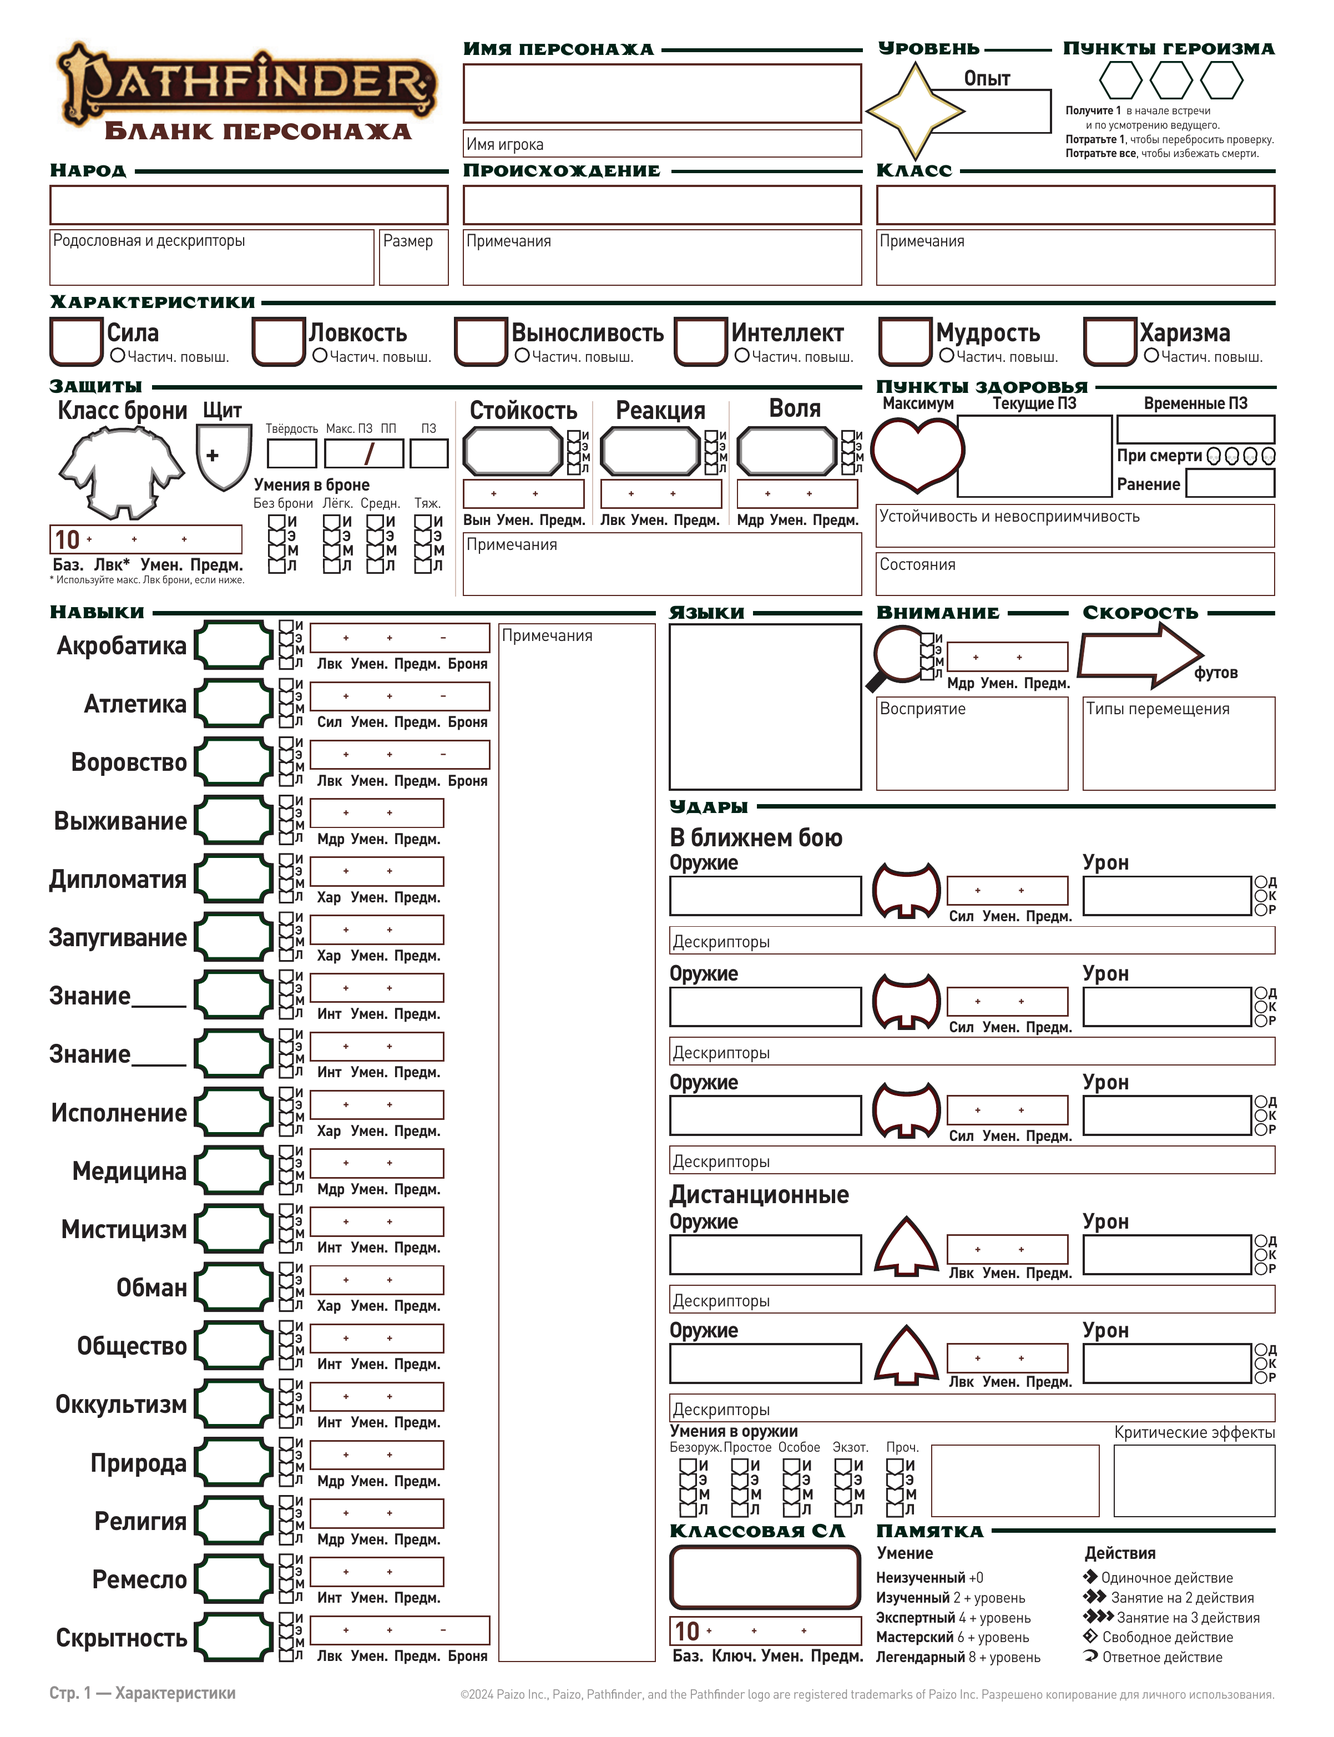
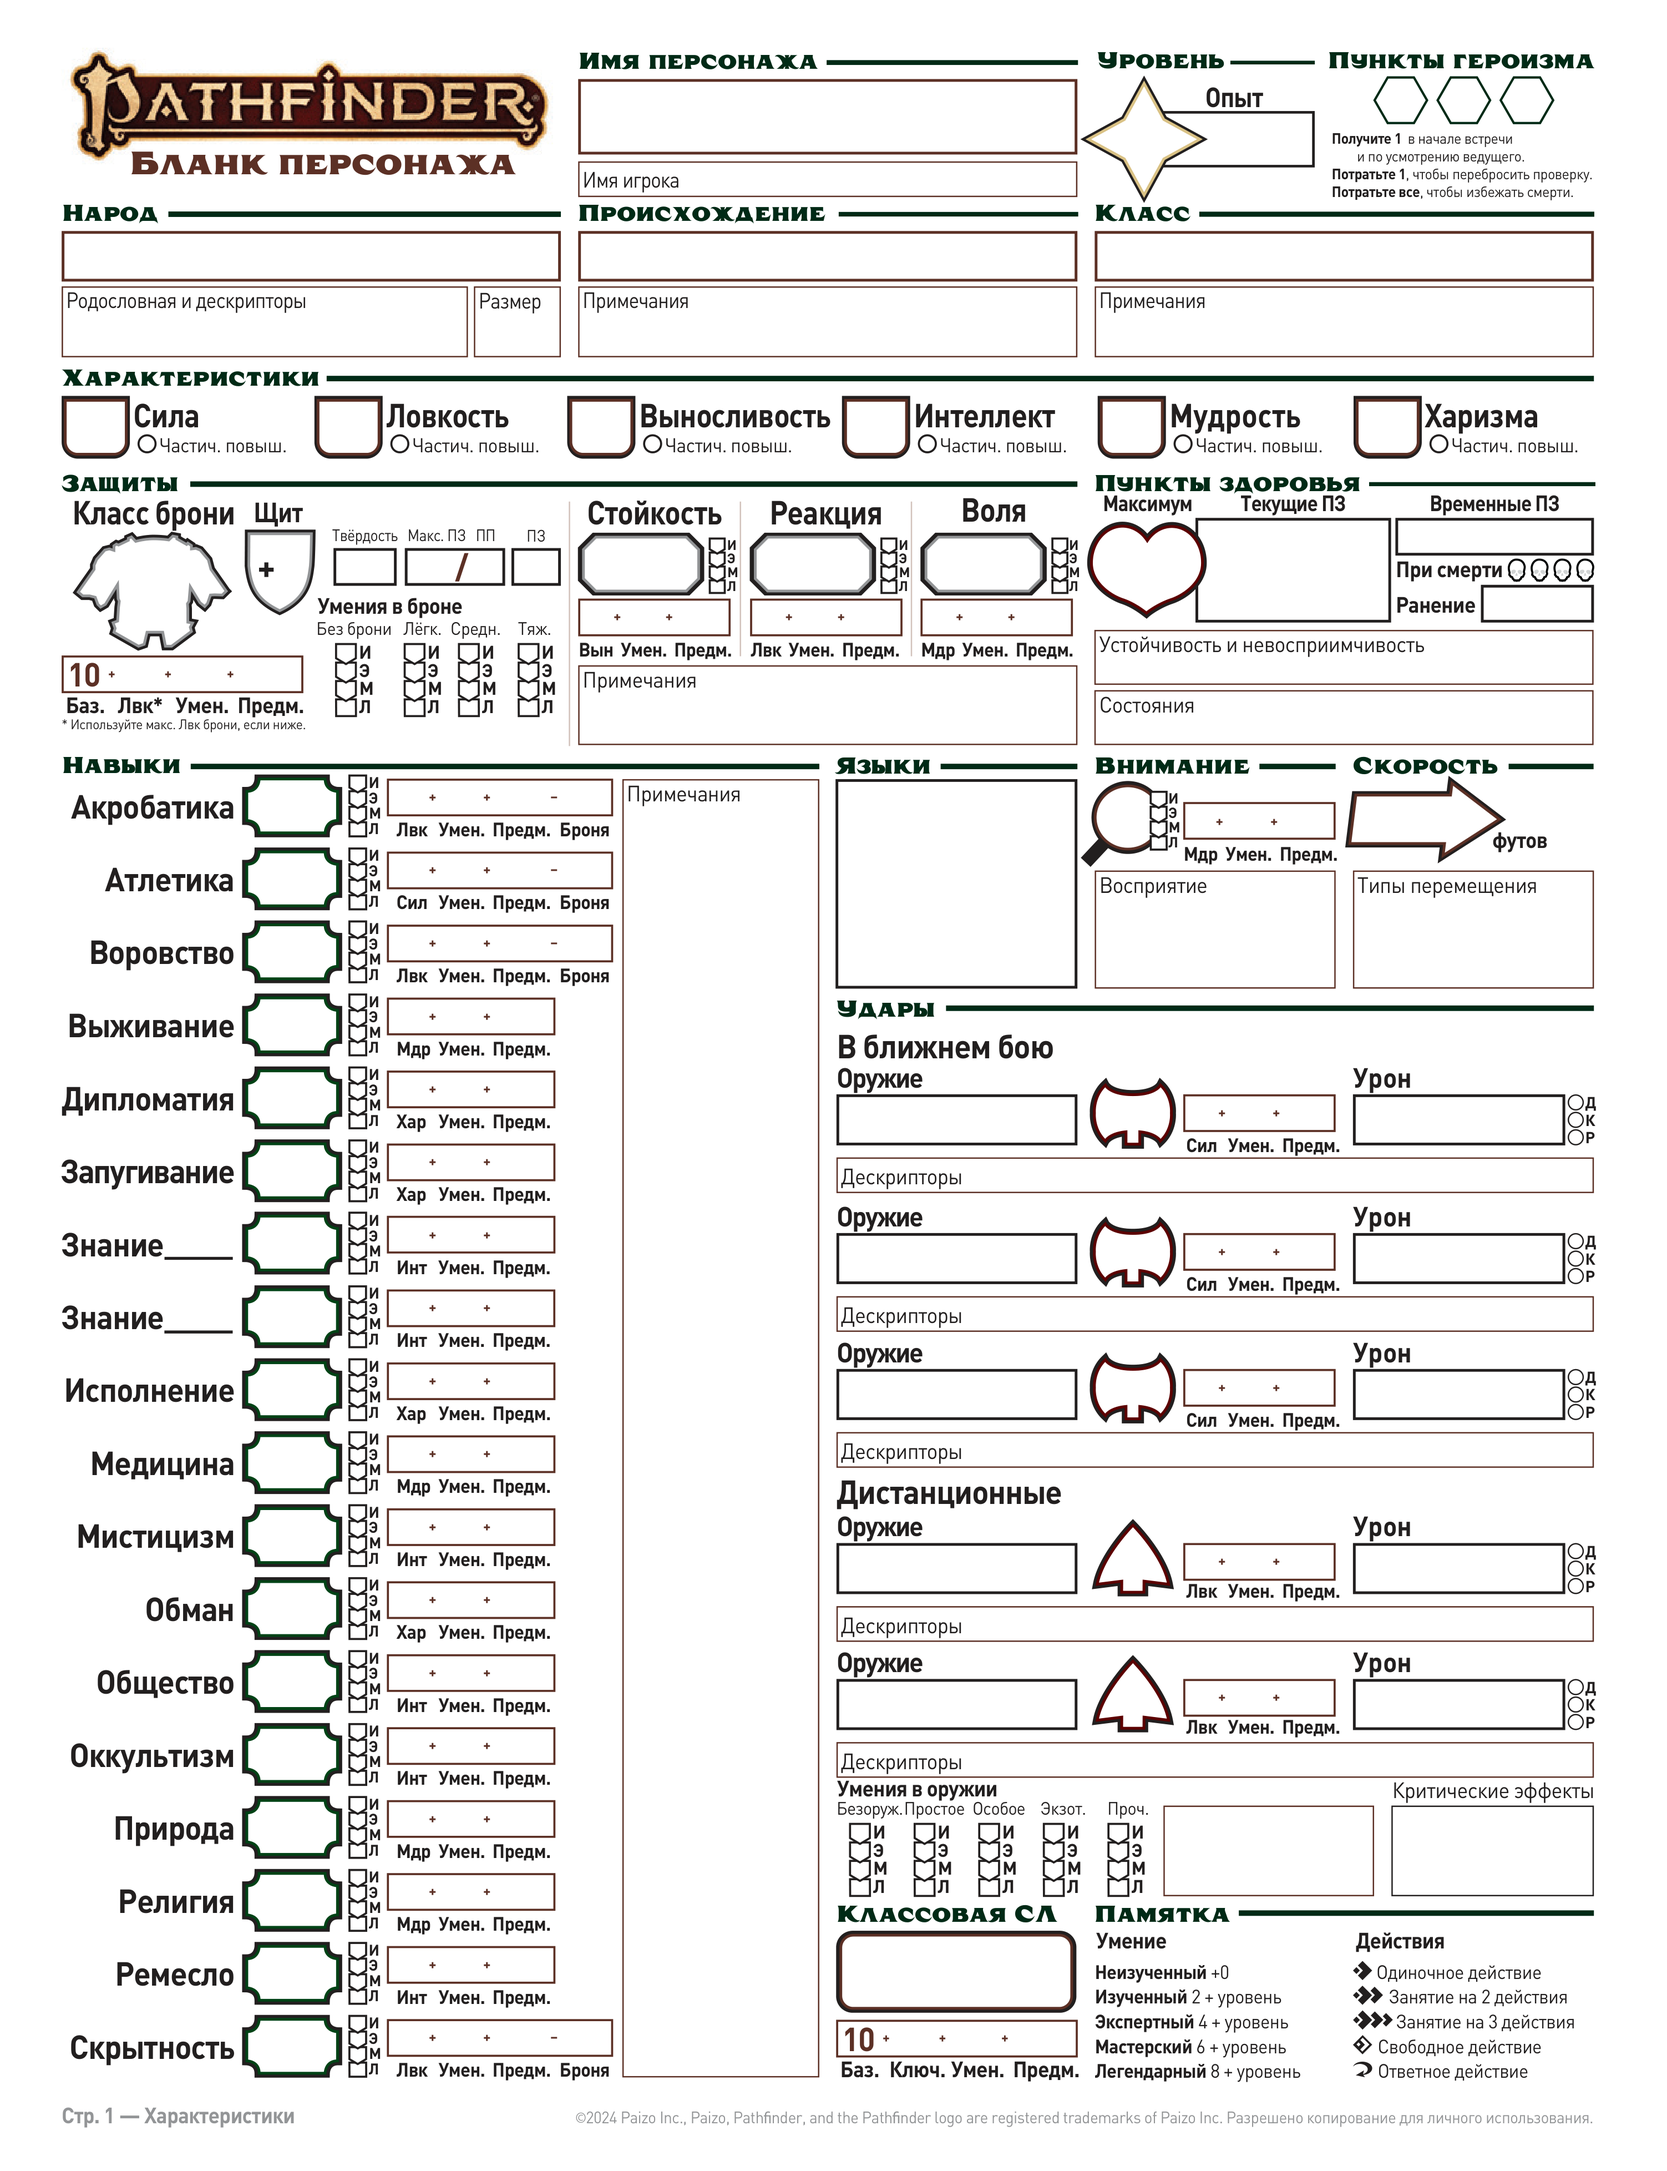
perf(pf2e): improve sheet clarity with 360 DPI lossless page renders

diff --git a/src/features/pathfinder/TemplateAdmin.tsx b/src/features/pathfinder/TemplateAdmin.tsx
@@ -115,7 +115,7 @@ export default function TemplateAdmin({userId,onClose}:{userId:string;onClose:()
     </div>
     <div className="ta-columns">
       <div className="ta-scroll"><div className="ta-page" ref={pageRef} style={{width:zoom,aspectRatio:PDF_WIDTH+'/'+PDF_HEIGHT}}>
-        <img src={import.meta.env.BASE_URL+'pathfinder/page-'+page+'.webp?v=2'} alt={'Страница '+page} draggable={false}/>
+        <img src={import.meta.env.BASE_URL+'pathfinder/page-'+page+'.webp?v=3'} alt={'Страница '+page} draggable={false}/>
         {fields.filter(f=>f.page===page).map(f=><div key={f.id} data-field-id={f.id} title={f.label+' ('+f.id+')'}
           className={'ta-field '+(selected===f.id?'selected ':'')+(preview?'preview':'')+(samples[f.id]!==undefined?' ta-with-sample':'')+(f.kind==='long'?' ta-multiline':'')}
           style={box(f)} onPointerDown={e=>start(e,f,'move')} onPointerMove={move} onPointerUp={()=>{drag.current=null;}} onPointerCancel={()=>{drag.current=null;}} onClick={()=>setSelected(f.id)}>

diff --git a/src/features/pathfinder/PathfinderSheet.tsx b/src/features/pathfinder/PathfinderSheet.tsx
@@ -200,9 +200,9 @@ export default function PathfinderSheet({
 
     return <section key={page} className="pf-sheet-page" aria-label={`Страница ${page}: ${PAGE_TITLES[page - 1]}`}>
       <img
-        src={`${import.meta.env.BASE_URL}pathfinder/page-${page}.webp?v=2`}
-        width="2404"
-        height="3130"
+        src={`${import.meta.env.BASE_URL}pathfinder/page-${page}.webp?v=3`}
+        width="3005"
+        height="3912"
         loading={page === 1 ? 'eager' : 'lazy'}
         decoding="async"
         alt={`Бланк Pathfinder 2e, страница ${page}: ${PAGE_TITLES[page - 1]}`}

diff --git a/src/features/pathfinder/README.md b/src/features/pathfinder/README.md
@@ -7,14 +7,14 @@
 - `summary.ts`: extracts the home-card subtitle from the character sheet's `ancestry` and `character_class` fields.
 - `PathfinderSheet.tsx`: all four pages in document order, field input state, counter controls and save flow.
 - `PathfinderSheet.css`: isolated styling. No green editable-field overlays; neutral keyboard focus.
-- `public/pathfinder/page-{1..4}.webp`: lossless WebP, high-resolution (288 DPI) renders of the original PDF. `loading="lazy"` for pages 2–4.
+- `public/pathfinder/page-{1..4}.webp`: lossless WebP, high-resolution (360 DPI) renders of the original PDF. `loading="lazy"` for pages 2–4.
 - `public/pathfinder/Pathfinder_2e_RU_editable_V1.pdf`: downloadable form-enabled PDF, kept for compatibility, but the web UI edits its own persisted fields.
 
 The website stores the character's data in `characters.details.pathfinderSheet`, with `schemaVersion: 1`. The layout and original PDF do not affect saved data. When future gameplay calculations are added, do not replace user-entered values without a migration plan.
 
 ## Rendering quality
 
-The original PDF has vector text and line art. The first version used 962 × 1252 lossy WebP thumbnails as page backgrounds, so text became soft on Retina displays. Version 2 uses 2404 × 3130 lossless WebP images; browser display is ~960 px wide on desktop, so the image supplies about 2.5 physical pixels per CSS pixel at 100% scale. At extreme zoom, a future PDF.js renderer could offer resolution-independent vector rendering.
+The original PDF has vector text and line art. The first version used 962 × 1252 lossy WebP thumbnails as page backgrounds, so text became soft on Retina displays. Current version uses 3005 × 3912 lossless WebP images rendered from the original vector PDF at 360 DPI. At a ~960 CSS-px sheet width, it provides about 3.1 image pixels per CSS pixel. The PDF field coordinate system is unchanged. Rendering via PDF.js would provide resolution-independent text and lines at arbitrary zoom.
 
 ## Notes
 
